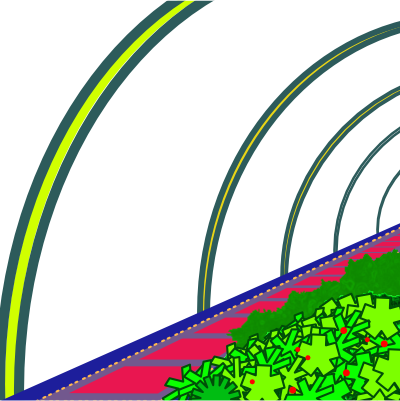
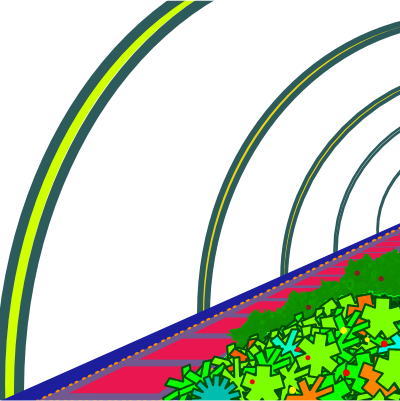
about to try something that will break it all.

diff --git a/space_vista.py b/space_vista.py
@@ -3,7 +3,7 @@
 # Here we assemble a randomly generate gif that is a view of some astronomical
 # wonders from various rooms inside our space craft.
 
-from PIL import Image, ImageDraw, ImageColor
+from PIL import Image, ImageDraw, ImageColor, ImageFilter
 from functools import partial
 from pygifsicle import optimize
 from tqdm import tqdm
@@ -141,6 +141,23 @@ class CelestialBody:
     def draw(self, image, drawing_frame, frame_n):
         pass
 
+    # def drift(self, xy, velocity, frame_n):
+    #     """
+    #     Takes in a vector of screen coordinates `xy`.
+    #     Returns new screen coordinates that assure an Atari wrap-around situation.
+    #     """
+    #     # Transform screen coordinates to Cartesian because we're not barbarians here.
+    #     xy = self.screen_to_cart(xy)
+    #     # Our rocket runs on that sweet, sweet linear algebra.
+    #     nudge_matrix = self.vista.rot_matrix @ (velocity * frame_n * np.array([1, 0])) 
+    #     xy = xy - nudge_matrix
+    #     # Check for wrap-around.
+    #     cosmic_boundaries = self.vista.length * velocity
+    #     test_x, test_y = xy @ self.vista.rot_matrix
+    #     if abs(test_x) > cosmic_boundaries / 2:
+    #         xy = xy + self.vista.rot_matrix @ (np.sign(test_x)*cosmic_boundaries * np.array([1, 0]))
+    #     return self.cart_to_screen(xy)
+
     def drift(self, xy, velocity, frame_n):
         """
         Takes in a vector of screen coordinates `xy`.
@@ -153,9 +170,9 @@ class CelestialBody:
         xy = xy - nudge_matrix
         # Check for wrap-around.
         cosmic_boundaries = self.vista.length * velocity
-        test = self.vista.rot_matrix @ xy
-        if abs(test[0]) > cosmic_boundaries / 2:
-            xy = xy + (cosmic_boundaries * np.array([1, 0])) @ self.vista.rot_matrix
+        test_x, test_y = (self.vista.rot_matrix @ xy)
+        if abs(test_x) > cosmic_boundaries / 2:
+            xy = xy - np.sign(test_x)*(cosmic_boundaries * np.array([1, 0])) @ self.vista.rot_matrix
         return self.cart_to_screen(xy)
 
 
@@ -243,43 +260,10 @@ class StarField(CelestialBody):
             drawing_frame.point(tuple(xy), fill=(*rgb, 255))
 
 
-# class Planet(CelestialBody):
-#     """
-#     Planets can only exist in layers 1 through 3.
-#     """
-
-#     def __init__(self, vista):
-#         super().__init__(vista)
-#         min_x, min_y = self.cart_to_screen(
-#             np.array([self.vista.length * self.layer / -2, self.vista.height])
-#         )
-#         max_x, max_y = self.cart_to_screen(
-#             np.array([self.vista.length * self.layer / 2, self.vista.height * -1])
-#         )
-#         self.x = RNG.integers(min_x, max_x, endpoint=True)
-#         self.y = RNG.integers(min_y, max_y, endpoint=True)
-#         self.mass = int(
-#             RNG.triangular(4, self.vista.height / 3, self.vista.height / np.sqrt(2))
-#         )
-#         self.fill = self.vista.palette.random_color(col_n=self.layer - 1)
-#         self.moons = [
-#             Moon(self, self.vista) for _ in range(RNG.integers(5, endpoint=True))
-#         ]
-
-#     def draw(self, image, drawing_frame, frame_n):
-#         x, y = self.drift(
-#             np.array([self.x, self.y]), velocity=self.layer, frame_n=frame_n
-#         )
-#         drawing_frame.ellipse(
-#             [x, y, x + self.mass, y + self.mass], fill=(*self.fill, 255)
-#         )
-#         for moon in self.moons:
-#             moon.draw(image, drawing_frame, frame_n)
-
-
 class BasePlanet(CelestialBody):
     def __init__(self, vista):
         super().__init__(vista)
+        self.velocity = min(6, self.layer // 3 + 1)
         min_x = min_y = -10
         max_x, max_y = 395, 600
         self.x = RNG.integers(min_x, max_x, endpoint=True)
@@ -288,7 +272,54 @@ class BasePlanet(CelestialBody):
             RNG.triangular(4, self.vista.height / 3, self.vista.height / np.sqrt(2))
         )
         self.fill = self.vista.palette.random_color()
-        self.feature = []
+        self.features = []
+
+    def draw(self, image, drawing_frame, frame_n):
+        x, y = self.drift(
+            np.array([self.x, self.y]),
+            velocity=self.velocity,
+            frame_n=frame_n,
+        )
+        drawing_frame.ellipse(
+            [x, y, x + self.mass, y + self.mass], fill=(*self.fill, 255)
+        )
+        for feature in self.features:
+            feature.draw(image, drawing_frame, frame_n)
+
+class SwiftPlanet(BasePlanet):
+    def __init__(self, vista, velocity=None):
+        super().__init__(vista)
+        self.x = 200
+        self.y = 200
+        if velocity is not None and 1200 % velocity == 0:
+            self.velocity = velocity
+        else:
+            self.velocity = RNG.choice([8,10,12,16], p=[.3,.3,.3,.1])
+
+class CappedPlanet(BasePlanet):
+    def __init__(self, vista):
+        super().__init__(vista)
+        self.im = self.cap()
+
+    def cap(self):
+        new = Image.new('RGBA', (self.mass+10, self.mass+10), (0,0,0,0))
+        x = RNG.integers(new.size[0])
+        y = RNG.integers(new.size[1])
+        cap = new.copy()
+        dn = ImageDraw.Draw(new)
+        dn.ellipse(
+            [5, 5, 5 + self.mass, 5 + self.mass], fill=(*self.fill, 255)
+        )
+        mask = new.copy()
+        dc = ImageDraw.Draw(cap)
+        dc.ellipse(
+            [x, y, x + self.mass//10, y + self.mass//10], fill=(255,255,255, 112)
+        )
+
+        # mask.paste(cap, mask=mask)
+        dc.bitmap((0,0), mask)
+        layer_image(new, cap)
+        return new # new.filter(ImageFilter.UnsharpMask())
 
     def draw(self, image, drawing_frame, frame_n):
         x, y = self.drift(
@@ -296,36 +327,9 @@ class BasePlanet(CelestialBody):
             velocity=min(6, self.layer // 3 + 1),
             frame_n=frame_n,
         )
-        drawing_frame.ellipse(
-            [x, y, x + self.mass, y + self.mass], fill=(*self.fill, 255)
-        )
-        for feature in self.feature:
+        image.paste(self.im, box=(int(x),int(y)))
+        for feature in self.features:
             feature.draw(image, drawing_frame, frame_n)
-
-
-# class Moon(Planet):
-#     def __init__(self, planet, vista):
-#         self.planet = planet
-#         self.vista = vista
-#         self.center = np.array([self.vista.width // 2, self.vista.height // 2])
-#         self.layer = min(5, max(1, self.planet.layer + RNG.choice([-1, 1])))
-#         short_dim = planet.mass
-#         self.x = self.planet.x + RNG.integers(
-#             -int(short_dim / 2),
-#             int(short_dim * 1.5),
-#             endpoint=True,
-#         )
-#         self.y = self.planet.x + RNG.integers(
-#             -int(short_dim / 2),
-#             int(short_dim * 1.5),
-#             endpoint=True,
-#         )
-#         self.mass = int(
-#             RNG.triangular(np.sqrt(short_dim), short_dim / 4, short_dim / 3)
-#         )
-#         self.fill = self.vista.palette.random_color()
-#         self.moons = []
-
 
 class Interior(CelestialBody):
     def __init__(self, vista, file_path):
@@ -373,7 +377,7 @@ class AstroGarden(Interior):
 class Engineering(Interior):
     def __init__(self, vista):
         super(Interior, self).__init__(vista)
-        self.flicker = RNG.choice(["", "1"], p=[0.8, 0.2])
+        self.flicker = RNG.choice(["s-", "f-"], p=[0.8, 0.2])
         self.film_strip = [
             self.recolor(Image.open(f"{self.flicker}engineering{n}.png"))
             for n in range(4)
@@ -437,7 +441,7 @@ class Palette:
             self.palette = self.random_palette(color_depth=6)
         elif type(palette) == pd.Series:
             self.palette = self.fill_shades(
-                self.sort_palette(palette).to_frame(name=str(self.shade_depth - 1))
+                self.sort_palette(palette).to_frame(name=0)
             )
         elif type(palette) == pd.DataFrame:
             self.palette = palette
@@ -509,6 +513,26 @@ class Palette:
         return plt_im.convert("P")
 
 
+class ComplimentaryPalette(Palette):
+    def random_palette(self, color_depth=6):
+        base_hue = RNG.integers(0,360)
+        support_right = (base_hue + 12) % 360
+        support_left = (base_hue - 12) % 360
+        pop_hue = (base_hue + 180) % 360
+        palette = pd.Series(
+                [
+                    ImageColor.getrgb(f'hsl({hue}, {RNG.integers(70,101)}%, {RNG.integers(40,61)}%)')
+                    for hue in (base_hue, support_right, support_left, pop_hue)
+                ] + [ImageColor.getrgb(hsl) for hsl in 
+                (f'hsl({pop_hue}, 50%, 70%)', f'hsl({pop_hue}, 50%, 30%)')]
+        )
+        palette = self.sort_palette(palette)
+        palette = palette.to_frame(name=0)
+        return self.fill_shades(palette)
+
+
+
+
 ## Helper Functions
 
 
@@ -561,10 +585,15 @@ def testers():
 #     [(RNG.integers(256), RNG.integers(256), RNG.integers(256)) for _ in range(6)]
 # )
 # test = Vista(palette=Palette(p))
+# cp = ComplimentaryPalette()
 test = Vista()
 stars = StarField(test, 500)
 for _ in range(RNG.integers(1, 13)):
     BasePlanet(test)
+# for v in range(1,4):
+#     SwiftPlanet(test, velocity=v*-2)
+
+# Interior
 # interior = Interior(test, "observation_windows.png")
 # interior = AstroGarden(test)
 interior = Engineering(test)

diff --git a/twitterbot/bot.py b/twitterbot/bot.py
@@ -166,7 +166,7 @@ class GifTweet(object):
         Publishes Tweet with attached gif
         """
         request_data = {
-            "status": "Systems check [✔]",
+            "status": "On course, but the destination seems unimportant.",
             "media_ids": self.media_id,
         }
 
@@ -175,7 +175,7 @@ class GifTweet(object):
 
 
 if __name__ == "__main__":
-    time.sleep(60**2)
+    time.sleep(47**2)
     vista = GifTweet(GIF_FILENAME)
     vista.upload_init()
     vista.upload_append()
